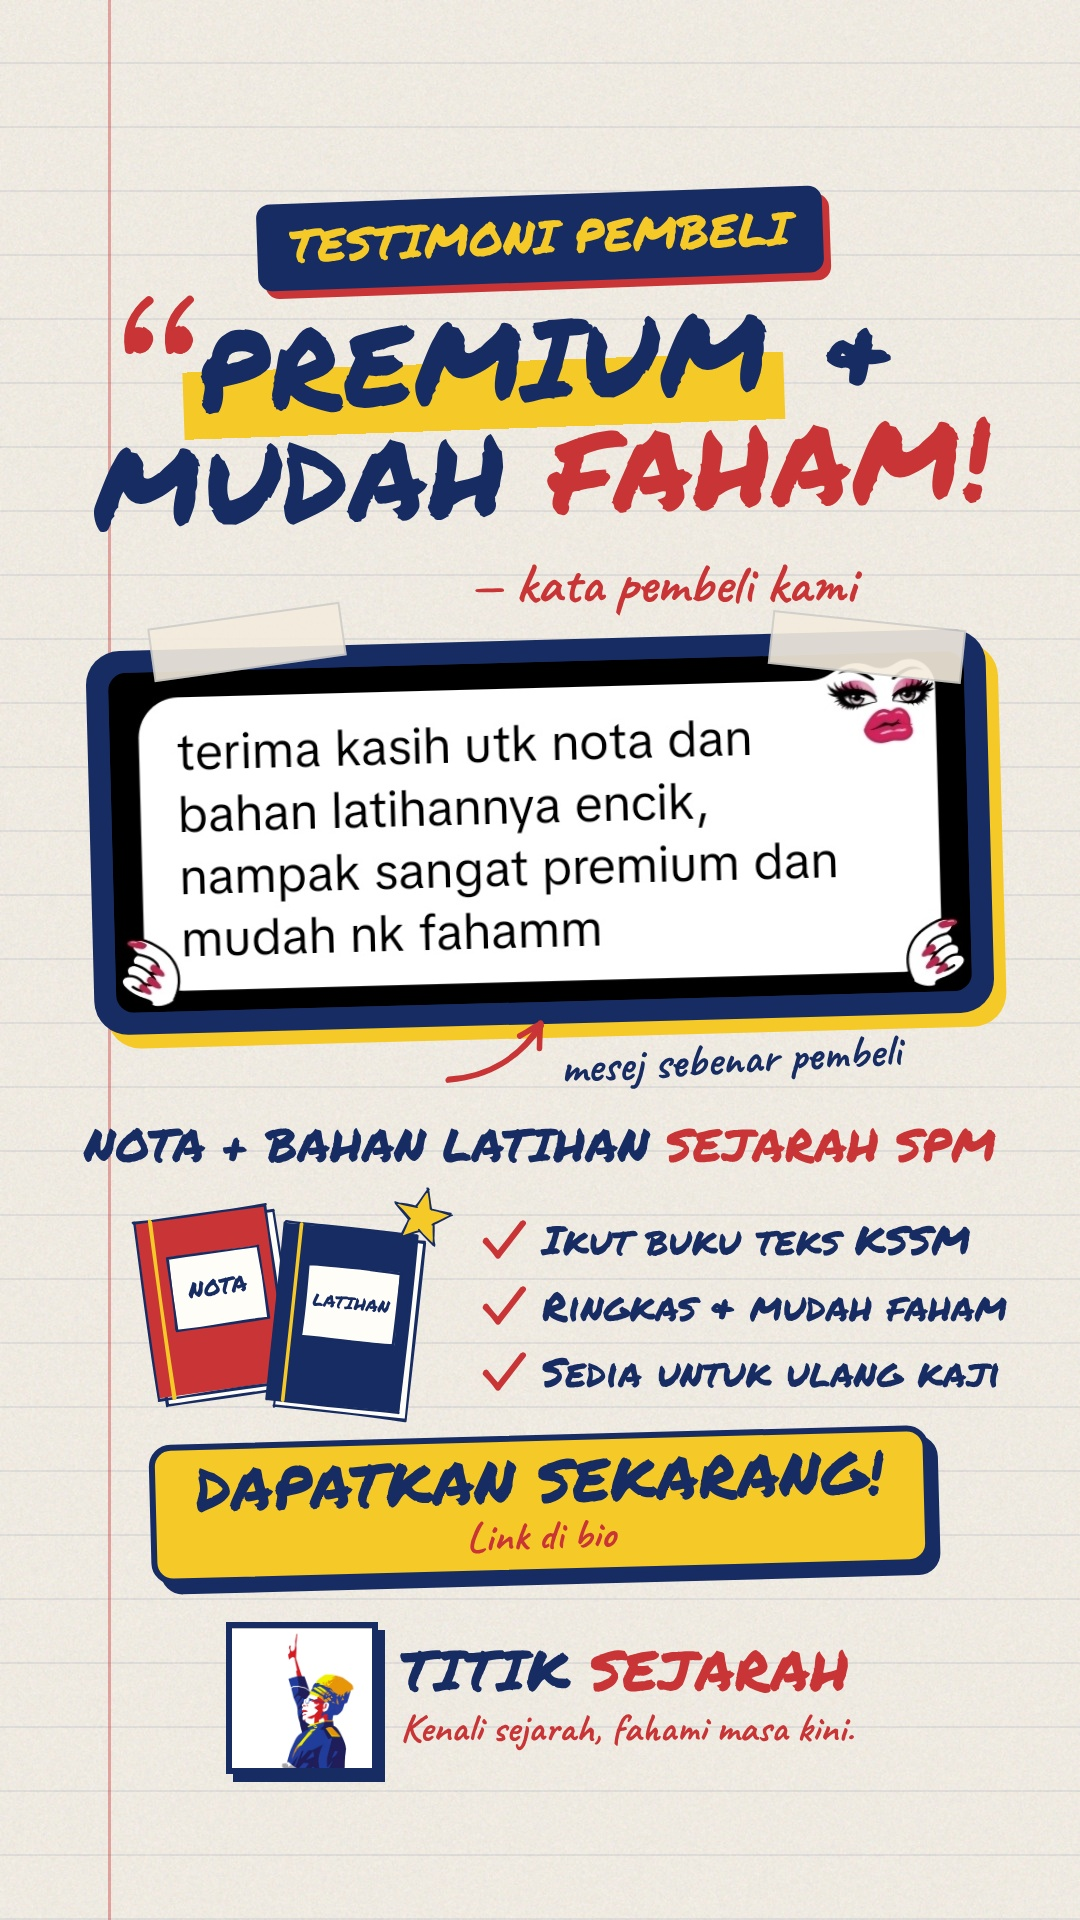
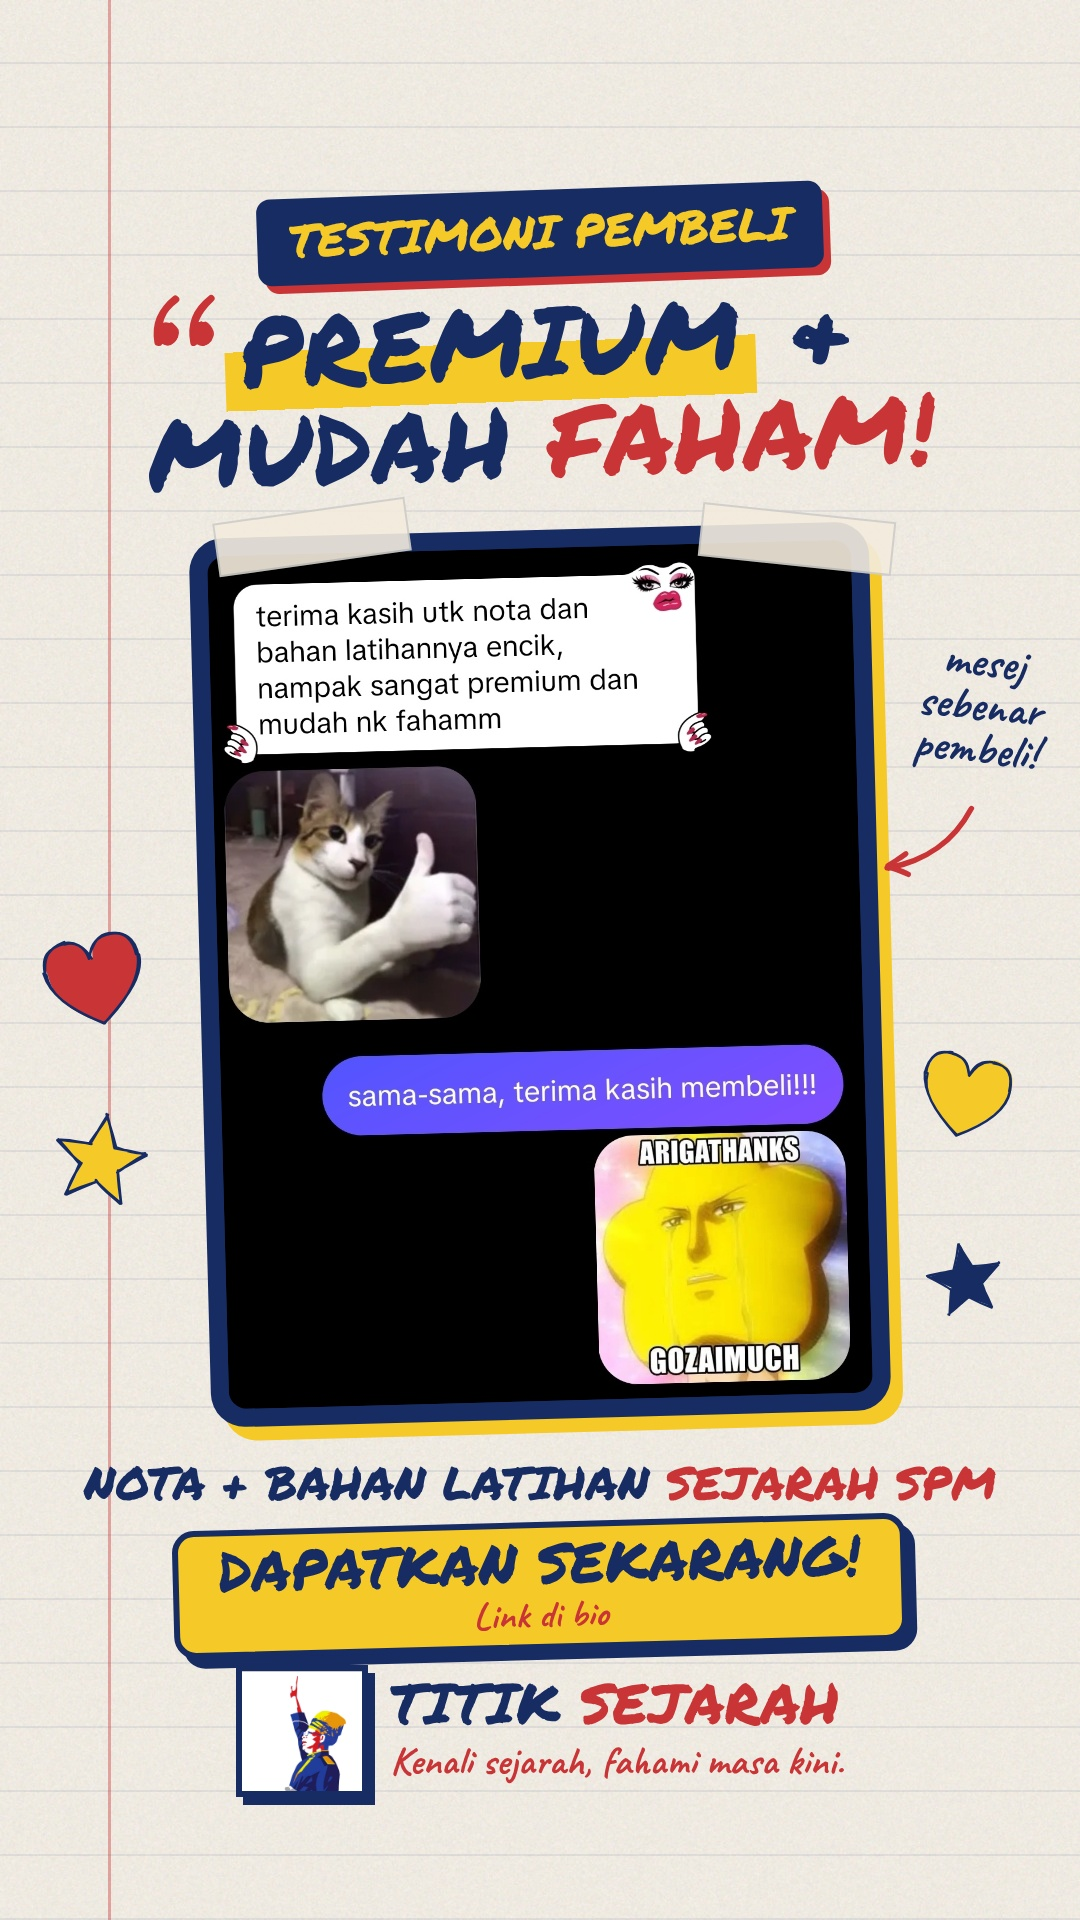
Testimonial poster: show full chat with stickers and our reply
Claude-Session: https://claude.ai/code/session_01J6XTmEEfaGyASqYC8kTvFV

diff --git a/engine/poster_testi01.html b/engine/poster_testi01.html
@@ -19,20 +19,20 @@ html,body{margin:0;width:1080px;height:1920px;overflow:hidden}
 .red{color:#C93436}
 .chip{display:inline-block;background:#172C63;color:#F5C928;font-family:'Marker';font-size:46px;padding:8px 32px 12px;border-radius:14px;box-shadow:7px 8px 0 #C93436}
 .hl{background:linear-gradient(to bottom,transparent 52%,#F5C928 52%,#F5C928 94%,transparent 94%);padding:0 14px}
-.head{font-family:'Marker';font-size:112px;line-height:1.02;letter-spacing:1px}
+.head{font-family:'Marker';font-size:98px;line-height:1.02;letter-spacing:1px}
 .by{font-family:'Caveat';font-weight:700;font-size:56px;color:#C93436}
 /* Real screenshot, framed like a phone screen pinned to the page */
-.shot{left:90px;top:640px;width:900px;box-sizing:border-box;padding:22px;background:#172C63;border-radius:34px;box-shadow:12px 14px 0 #F5C928;transform:rotate(-1.5deg)}
+.shot{left:200px;top:530px;width:680px;box-sizing:border-box;padding:18px;background:#172C63;border-radius:34px;box-shadow:12px 14px 0 #F5C928;transform:rotate(-1.5deg)}
 .shot img{display:block;width:100%;border-radius:18px}
 .tape{position:absolute;width:190px;height:50px;background:rgba(243,235,221,.9);border:2px solid rgba(23,44,99,.15)}
 .note{font-family:'Caveat';font-weight:700;font-size:46px;color:#172C63}
 .ptitle{font-family:'Marker';font-size:46px;line-height:1.05;white-space:nowrap}
 .li{display:flex;align-items:center;gap:14px;font-family:'Marker';font-size:40px;line-height:1.1;margin:0 0 22px;white-space:nowrap}
 .li .ck{width:48px;flex:none}
-.cta{display:inline-block;background:#F5C928;border:6px solid #172C63;border-radius:22px;box-shadow:9px 10px 0 #172C63;padding:8px 40px 12px;font-family:'Marker';font-size:60px;line-height:1}
-.cta small{display:block;font-family:'Caveat';font-weight:700;font-size:42px;color:#C93436;margin-top:6px}
-.brand{left:0;width:1080px;top:1622px;display:flex;justify-content:center;align-items:center;gap:22px}
-.brand .dp{width:140px;height:140px;border:6px solid #172C63;background:#fff url(../assets/brand/titik-sejarah-dp-square.jpg) center/cover;box-shadow:7px 8px 0 #172C63;flex:none}
+.cta{display:inline-block;background:#F5C928;border:6px solid #172C63;border-radius:22px;box-shadow:9px 10px 0 #172C63;padding:6px 40px 10px;font-family:'Marker';font-size:56px;line-height:1}
+.cta small{display:block;font-family:'Caveat';font-weight:700;font-size:38px;color:#C93436;margin-top:6px}
+.brand{left:0;width:1080px;top:1665px;display:flex;justify-content:center;align-items:center;gap:22px}
+.brand .dp{width:120px;height:120px;border:6px solid #172C63;background:#fff url(../assets/brand/titik-sejarah-dp-square.jpg) center/cover;box-shadow:7px 8px 0 #172C63;flex:none}
 .brand .t{font-family:'Marker';font-size:56px;line-height:.95}
 .brand .tg{font-family:'Caveat';font-weight:700;font-size:40px;color:#C93436;margin-top:6px}
 </style>
@@ -49,33 +49,29 @@ await document.fonts.ready;
 setSeed(301);
 
 // 1) Label + headline drawn from the customer's own words
-add('<span class="chip">TESTIMONI PEMBELI</span>', 'top:195px;transform:rotate(-2deg)', 'abs ctr');
-// big hand-drawn quote mark
+add('<span class="chip">TESTIMONI PEMBELI</span>', 'top:190px;transform:rotate(-2deg)', 'abs ctr');
 add(svg(160, 130, R.path('M20 120 Q10 60 60 20', { stroke: C.red, strokeWidth: 16 }) + R.circle(40, 100, 50, { fill: C.red, stroke: C.red }) +
   R.path('M100 120 Q90 60 140 20', { stroke: C.red, strokeWidth: 16 }) + R.circle(120, 100, 50, { fill: C.red, stroke: C.red })),
-  'left:120px;top:290px;width:80px');
-add('<span class="hl">PREMIUM</span> &amp;<br>MUDAH <span class="red">FAHAM!</span>', 'top:300px;transform:rotate(-2deg)', 'abs ctr head');
-add('— kata pembeli kami', 'top:548px;left:470px', 'abs by');
+  'left:150px;top:290px;width:70px');
+add('<span class="hl">PREMIUM</span> &amp;<br>MUDAH <span class="red">FAHAM!</span>', 'top:290px;transform:rotate(-2deg)', 'abs ctr head');
 
-// 2) The real message (screenshot crop, unedited)
-add('<img src="../assets/testimonials/testi01_bubble.png" alt="">', '', 'abs shot');
-add('', 'left:150px;top:615px;transform:rotate(-8deg)', 'abs tape');
-add('', 'left:770px;top:620px;transform:rotate(6deg)', 'abs tape');
-add('mesej sebenar pembeli', 'left:560px;top:1030px;transform:rotate(-3deg)', 'abs note');
-add(D.arrow(10, 70, 110, 10, { w: 120, h: 80, color: C.red, sw: 6, bend: 0.25 }), 'left:440px;top:1015px;width:110px');
+// 2) The real conversation (full screenshot, unedited: message, stickers and our reply)
+add('<img src="../assets/testimonials/testi01_source.jpg" alt="">', '', 'abs shot');
+add('', 'left:215px;top:510px;transform:rotate(-8deg)', 'abs tape');
+add('', 'left:700px;top:512px;transform:rotate(6deg)', 'abs tape');
+// margin notes and doodles
+add('mesej<br>sebenar<br>pembeli!', 'left:895px;top:640px;transform:rotate(6deg);line-height:.95;text-align:center;width:170px', 'abs note');
+add(D.arrow(110, 10, 10, 80, { w: 120, h: 90, color: C.red, sw: 6, bend: -0.25 }), 'left:880px;top:800px;width:100px');
+add(D.heart(C.red), 'left:40px;top:930px;width:110px;transform:rotate(-12deg)');
+add(D.star(C.gold), 'left:50px;top:1110px;width:100px;transform:rotate(10deg)');
+add(D.star(C.navy), 'left:925px;top:1240px;width:80px;transform:rotate(-10deg)');
+add(D.heart(C.gold), 'left:915px;top:1050px;width:100px;transform:rotate(12deg)');
 
-// 3) Product + benefits
-add('NOTA + BAHAN LATIHAN <span class="red">SEJARAH SPM</span>', 'top:1120px', 'abs ctr ptitle');
-add(D.book('NOTA', C.red, { size: 34, y: 145 }), 'left:130px;top:1200px;width:165px;transform:rotate(-8deg)');
-add(D.book('LATIHAN', C.navy, { size: 26, y: 142 }), 'left:260px;top:1215px;width:165px;transform:rotate(6deg)');
-add(D.star(C.gold), 'left:390px;top:1185px;width:64px;transform:rotate(12deg)');
-const ck = D.check(C.red);
-add(`<div class="li"><div class="ck">${ck}</div>Ikut buku teks KSSM</div>
-     <div class="li"><div class="ck">${ck}</div>Ringkas &amp; mudah faham</div>
-     <div class="li" style="margin:0"><div class="ck">${ck}</div>Sedia untuk ulang kaji</div>`, 'left:480px;top:1218px;width:560px');
+// 3) Product
+add('NOTA + BAHAN LATIHAN <span class="red">SEJARAH SPM</span>', 'top:1458px', 'abs ctr ptitle');
 
 // 4) Call to action
-add('<span class="cta">DAPATKAN SEKARANG!<small>Link di bio</small></span>', 'top:1435px;transform:rotate(-1.5deg)', 'abs ctr');
+add('<span class="cta">DAPATKAN SEKARANG!<small>Link di bio</small></span>', 'top:1522px;transform:rotate(-1.5deg)', 'abs ctr');
 
 // 5) Brand sign-off with the official profile picture (unaltered)
 add('<div class="dp"></div><div><div class="t">TITIK <span class="red">SEJARAH</span></div><div class="tg">Kenali sejarah, fahami masa kini.</div></div>', '', 'abs brand');
